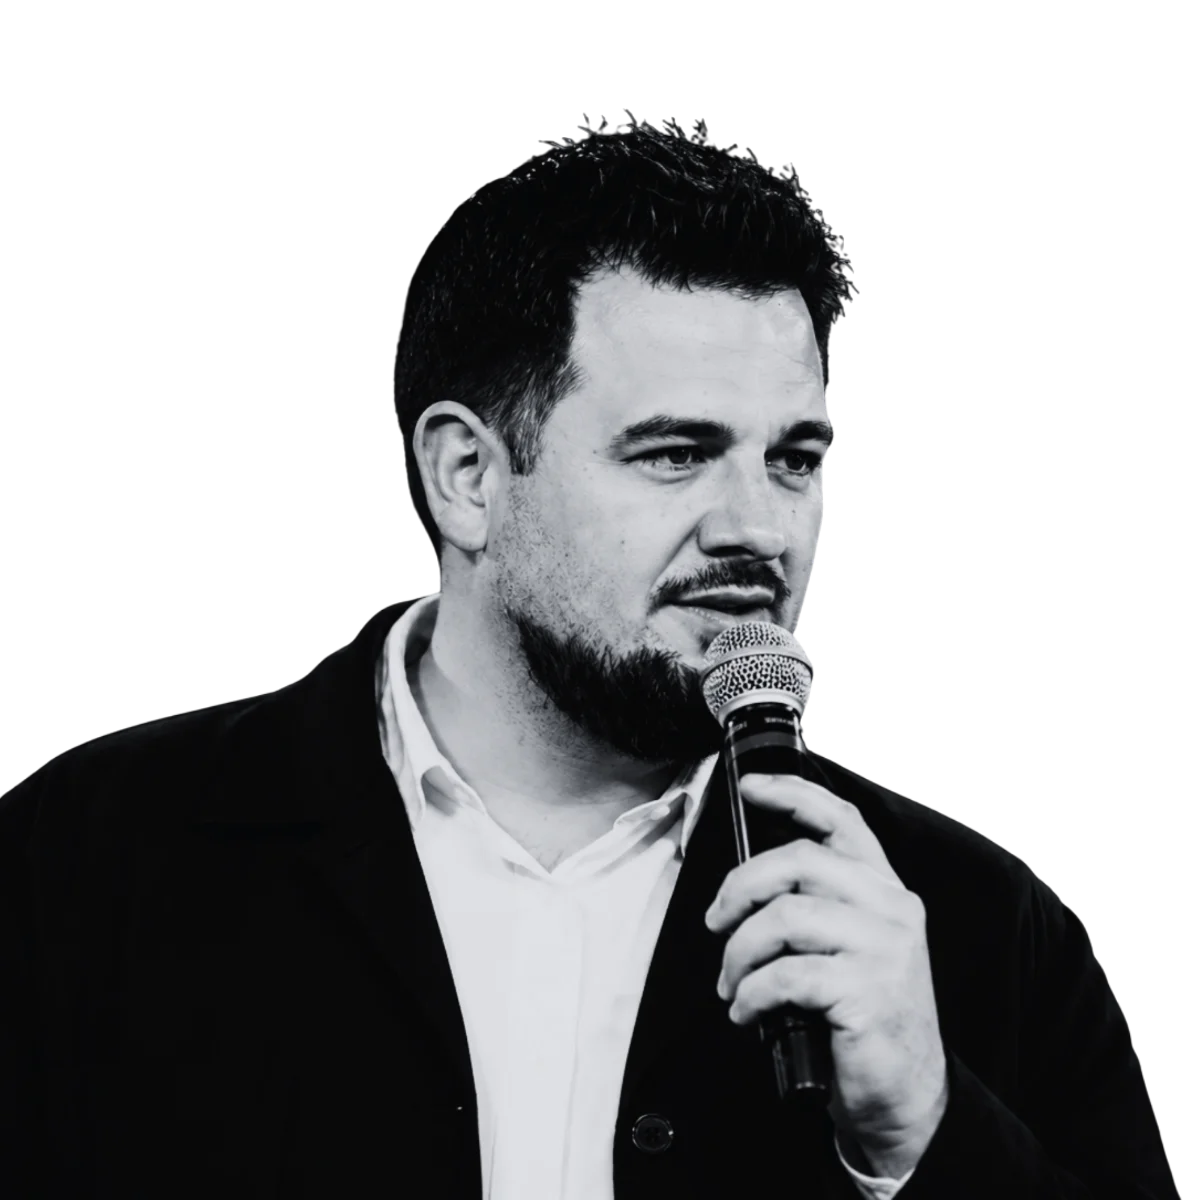
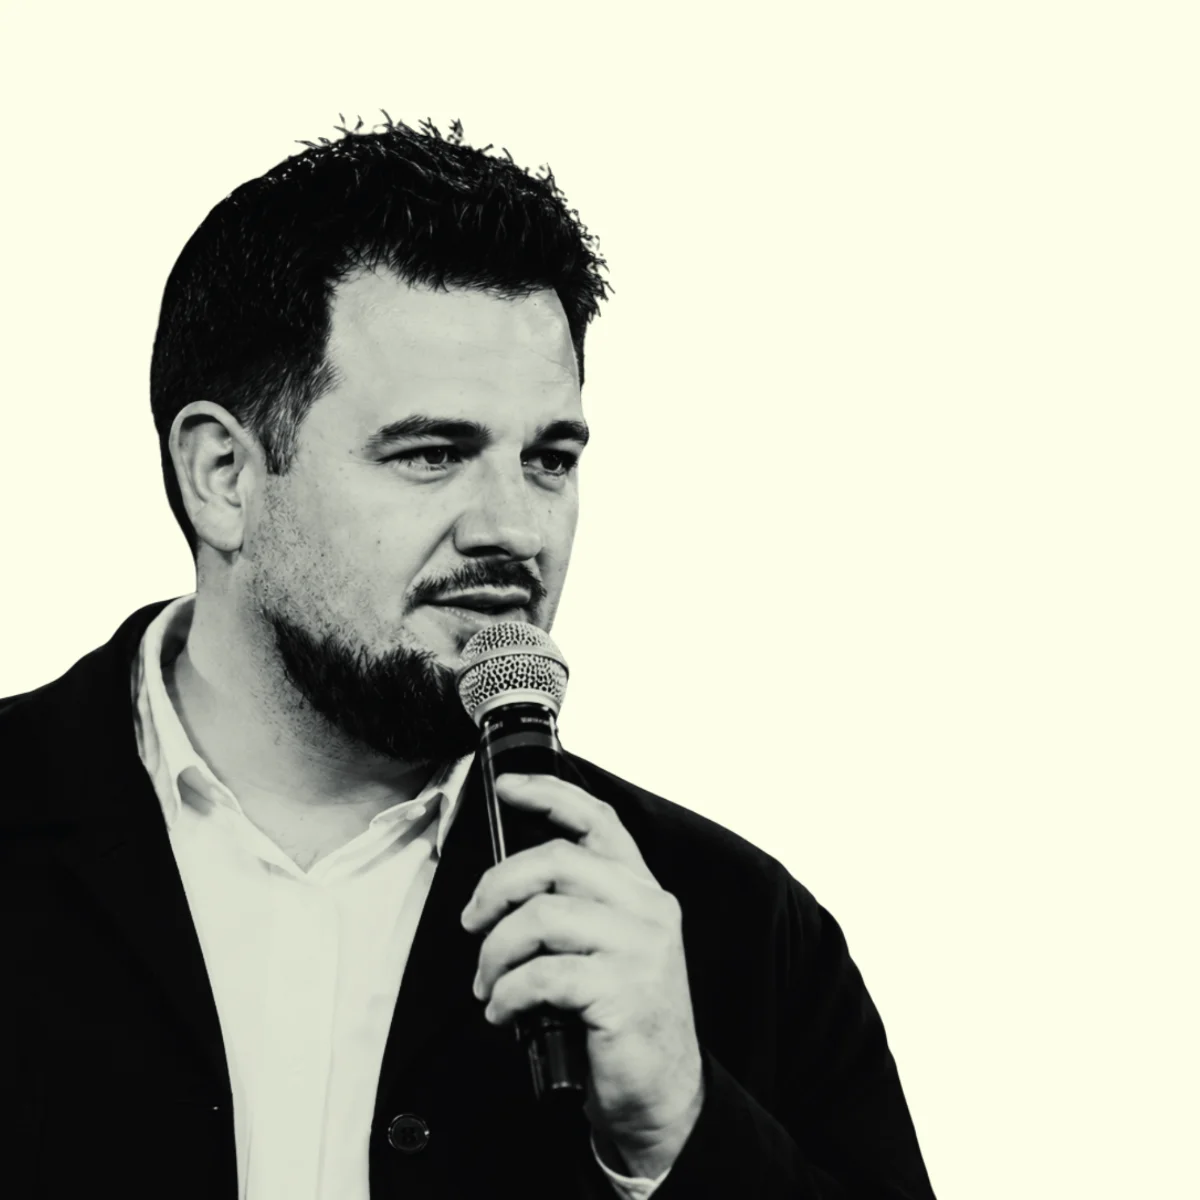
Face à face : nouveau cadrage de la photo de Jack, plus rien de coupé
- Nouvelle image fournie (sujet à gauche du cadre, espace à droite)
- Fond blanc fondu dans le crème du site (raccord invisible)
- Cadrage ancré à gauche (0 % 100 %)

diff --git a/eglise-tout-est-possible-pau/src/components/home/FaceOff.tsx b/eglise-tout-est-possible-pau/src/components/home/FaceOff.tsx
@@ -88,7 +88,7 @@ function FaceImage({
         fill
         sizes="50vw"
         className={`object-cover ${mirror ? "-scale-x-100" : ""}`}
-        style={{ objectPosition: flip ? "72% 100%" : "40% 100%" }}
+        style={{ objectPosition: flip ? "72% 100%" : "0% 100%" }}
       />
     );
   }
